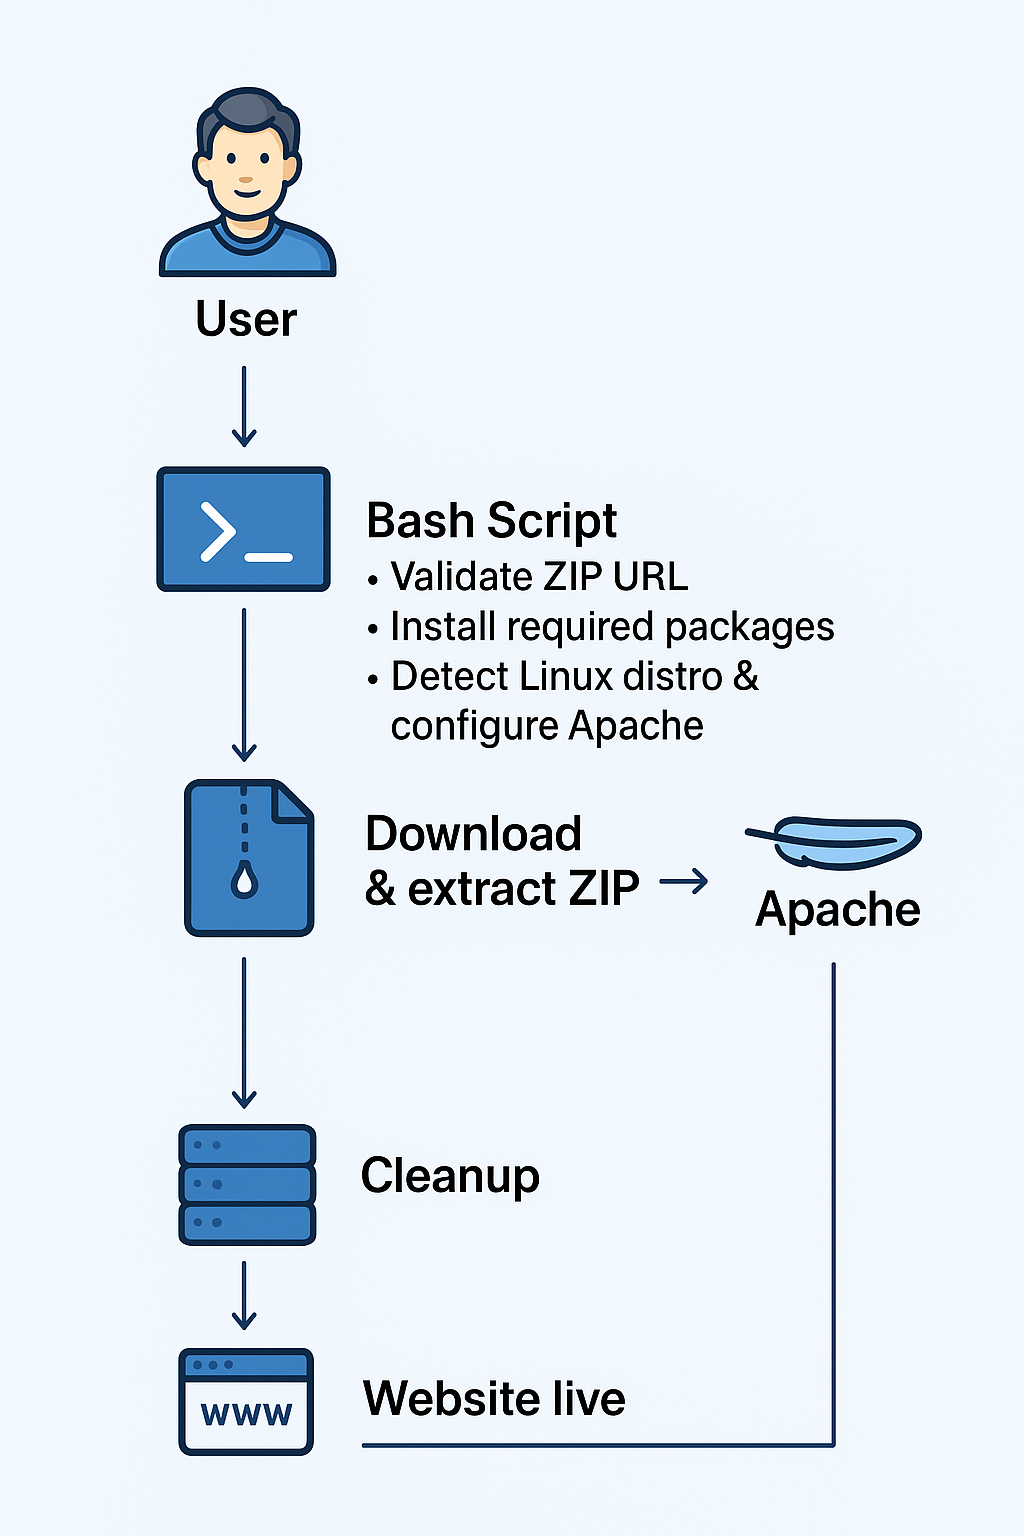
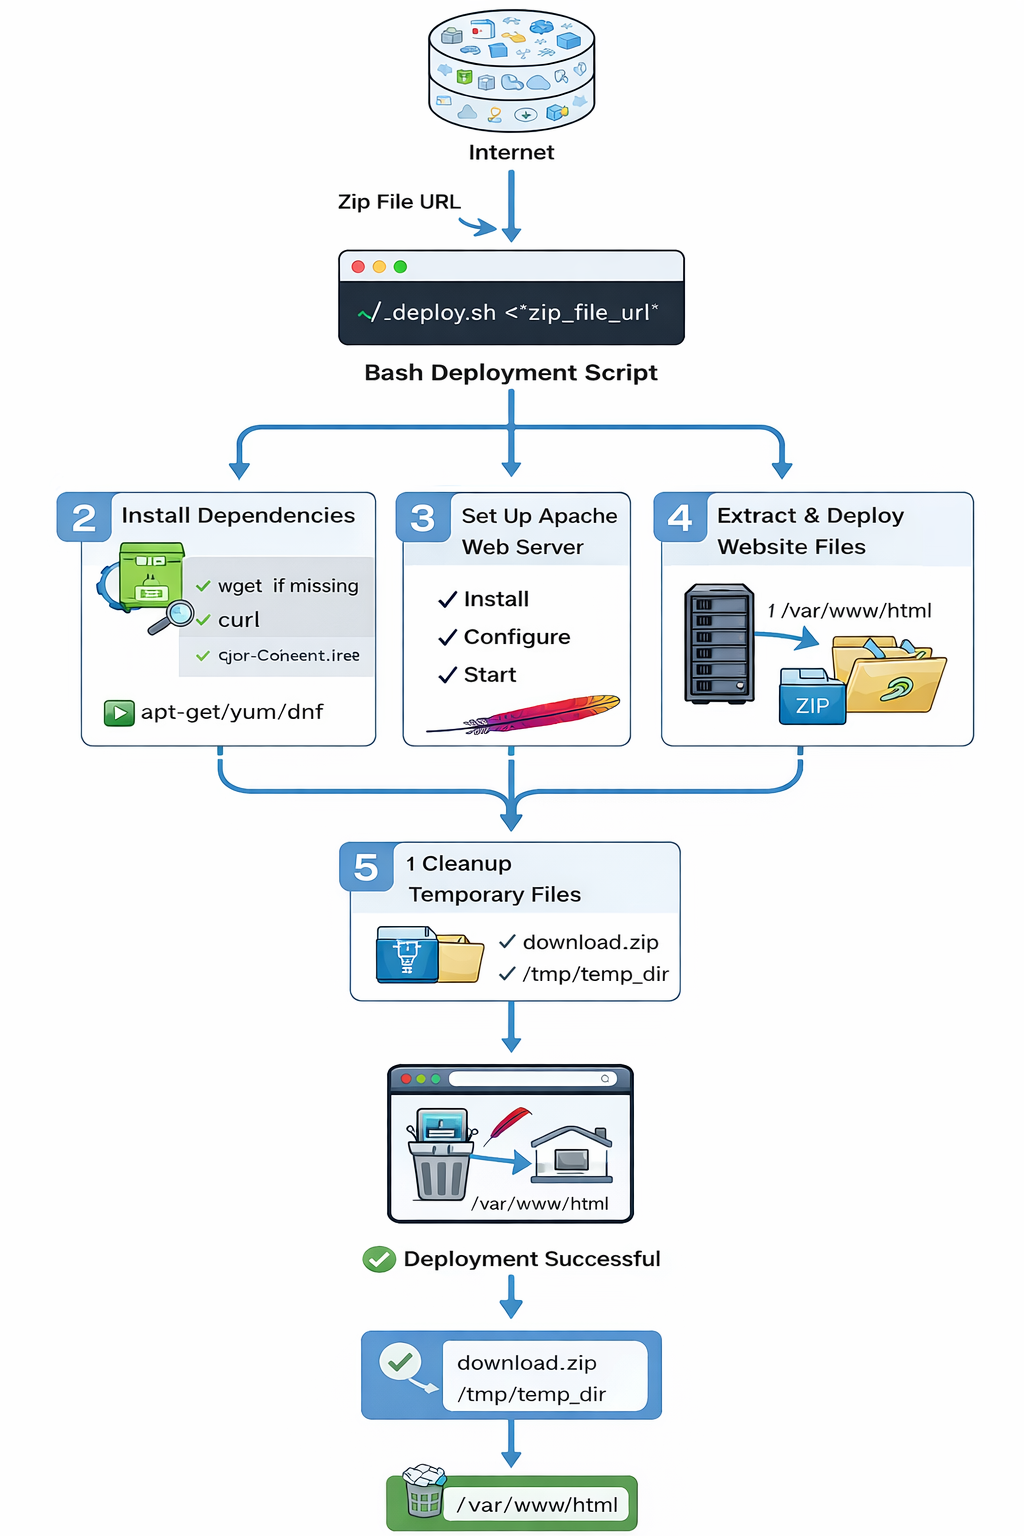
improvement to readme,script,architecture image

Changed region(s): [[0.0312, 0.0, 0.9375, 1.0], [0.6562, 0.5625, 0.6875, 0.5938]]

diff --git a/README.md b/README.md
@@ -1,60 +1,185 @@
-# 🚀 Automated Static Website Deployer
+![Bash](https://img.shields.io/badge/Bash-Scripting-green)
+![Linux](https://img.shields.io/badge/Linux-Ubuntu%20%7C%20RHEL-blue)
 
-![License](https://img.shields.io/badge/license-Apache%202.0-blue)
-![Platform](https://img.shields.io/badge/platform-Linux-lightgrey)
-![Bash](https://img.shields.io/badge/shell-bash-4EAA25)
+# Static Website Deployment Automation (Bash)
 
-## 📖 Overview
+A robust Bash automation script that deploys a static website to an Apache web server from a remote ZIP file.  
+This project demonstrates practical **Linux administration**, **Bash scripting**, and **DevOps automation** skills.
 
-This project is a resilient Bash automation tool designed to deploy static websites onto a Linux server. It abstracts the complexity of server configuration, dependency management, and file deployment into a single command.
+---
 
-The script is **OS-agnostic**, automatically detecting the underlying Linux distribution (Ubuntu/Debian or CentOS/RHEL) to use the appropriate package managers and service names.
+## 📌 Project Overview
 
-## 🏗 Architecture
+`deploy_static_website.sh` automates the process of deploying static web content on Linux servers in a safe and repeatable manner.
 
-![Deployment Architecture Diagram]($PWD/architecture.png)
+The script:
+- Validates user input
+- Installs required dependencies
+- Configures Apache HTTP Server
+- Deploys static web files
+- Applies secure permissions
+- Handles errors and cleanup automatically
 
-The automation workflow follows these steps:
-1.  **Environment Check:** Validates OS type and user permissions.
-2.  **Dependency Resolution:** Installs Apache, `wget`, `unzip`, and `curl` if missing.
-3.  **Input Validation:** Verifies the validity and reachability of the source ZIP URL.
-4.  **Deployment:** Downloads content, manages temporary storage, and deploys to `/var/www/html`.
-5.  **Security & Cleanup:** Sets correct file ownership/permissions and performs garbage collection on exit.
+This project focuses on **defensive scripting and automation fundamentals**, rather than full production platform management.
 
-## ✨ Key Features
+---
 
-* **🛡 Strict Error Handling:** Uses `set -euo pipefail` to ensure the script fails fast and safely upon encountering any error, preventing partial (broken) deployments.
-* **🐧 Multi-OS Support:** Logic to handle package management differences between `apt` (Debian/Ubuntu) and `yum` (RHEL/CentOS).
-* **🧹 Automatic Cleanup:** Implements `trap` functions to ensure temporary files are removed whether the script succeeds or crashes.
-* **🔒 Security Compliance:** Enforces correct ownership (`www-data` or `apache`) and permissions (`755`) on web root files.
-* **⚡ Idempotency:** Checks for existing packages and services before attempting installation to save time and resources.
+## 🧠 What This Project Demonstrates
 
-## ⚙ Prerequisites
+- Defensive Bash scripting (`set -euo pipefail`)
+- Linux OS detection and compatibility handling
+- Automated dependency installation
+- Apache HTTP Server setup and service management
+- File ownership and permission management
+- Input validation and structured error handling
+- Practical infrastructure automation concepts
 
-* A Linux environment (Ubuntu, Debian, CentOS, or RHEL).
-* `sudo` privileges (required to install packages and modify `/var/www/html`).
-* Internet access for downloading packages and the source ZIP file.
+---
+
+## ⚙ Features
+
+- ✔ ZIP URL validation and accessibility check  
+- ✔ Supports Debian/Ubuntu and RHEL-based systems  
+- ✔ Automatic dependency installation  
+- ✔ Apache installation and startup  
+- ✔ Static website deployment to `/var/www/html`  
+- ✔ Secure permissions and ownership configuration  
+- ✔ Automatic cleanup using traps  
+- ✔ Clear and actionable error messages  
+
+---
+
+## 🏗 Architecture Flow
+
+![Deployment Architecture Diagram](architecture.png)
+
+1. User provides a ZIP file URL  
+2. Script validates URL format and availability  
+3. OS type and package manager are detected  
+4. Required packages are installed if missing  
+5. Apache HTTP Server is installed and started  
+6. Website files are downloaded and extracted  
+7. Files are deployed to Apache web root  
+8. Permissions and ownership are applied  
+9. Cleanup runs automatically  
+
+---
+
+## 📦 Requirements
+
+- Linux system (Debian/Ubuntu or RHEL-based)
+- Bash 4+
+- `sudo` privileges
+- Internet connectivity
+
+---
+
+## 🧰 Dependencies (Auto-installed)
+
+- `curl`
+- `wget`
+- `unzip`
+- `apache2` / `httpd`
+
+---
 
 ## 🚀 Usage
 
-### 1. Clone the Repository
-```bash
-git clone https://github.com/michaeltemitope/bash-static-web-setup.git
-cd bash-static-web-setup/
-
-### 2. Make the Script Executable
+### Make the script executable
 
 chmod +x deploy_static_website.sh
 
-### 3. Run the Deployment
+Run the script
+./deploy_static_website.sh <zip_file_url>
 
-Pass the URL of your static website's ZIP file as an argument:
+Example
+./deploy_static_website.sh https://example.com/website.zip
 
-sudo ./deploy_static_website.sh [https://www.free-css.com/assets/files/free-css-templates/download/page254/photogenic.zip](https://www.free-css.com/assets/files/free-css-templates/download/page254/photogenic.zip)
 
-Note: The URL must start with http:// or https:// and end with .zip
+After successful execution, the website is available via the server’s IP address or domain.
 
-🧪 Testing
-To verify the deployment, open your browser and navigate to your server's IP address or localhost:
+---
 
-http://localhost/
+## 📁 Deployment Directory
+/var/www/html
+
+---
+
+## 🛡 Error Handling & Safety
+
+This script is written with safety and reliability in mind:
+
+Immediate exit on failure
+
+Input validation for external resources
+
+Controlled privilege usage
+
+Automatic cleanup on exit or interruption
+
+Clear error output for troubleshooting
+
+---
+
+## 🧹 Cleanup Strategy
+
+Temporary files and downloads are removed automatically using a trap, ensuring no leftover artifacts remain.
+
+---
+
+## 🐧 Supported Platforms
+OS Family       	        Package Manager     Apache Service
+Debian/Ubuntu	            apt-get	            apache2
+RHEL/CentOS/Amazon Linux	dnf/yum	            httpd
+
+---
+
+## 🔐 Security Considerations
+
+Correct Apache user ownership (www-data / apache)
+
+Secure permissions applied recursively
+
+No embedded secrets or credentials
+
+Minimal required privileges
+
+---
+
+## 🧪 Tested Environments
+
+Ubuntu 20.04 / 22.04
+
+Amazon Linux 2
+
+CentOS 7 / 8
+
+---
+
+##  📈 Possible Improvements
+
+Add dry-run mode (--dry-run)
+
+Add logging to a file
+
+Add rollback on failed deployment
+
+Add HTTPS support
+
+Add health checks
+
+Add versioned deployments
+
+---
+
+## 📄 License
+
+Apache License 2.0
+
+---
+
+## 👨💻 Author
+
+Temitope Michael
+DevOps / Cloud Engineer
+Focused on automation, cloud infrastructure, and reliable systems.
